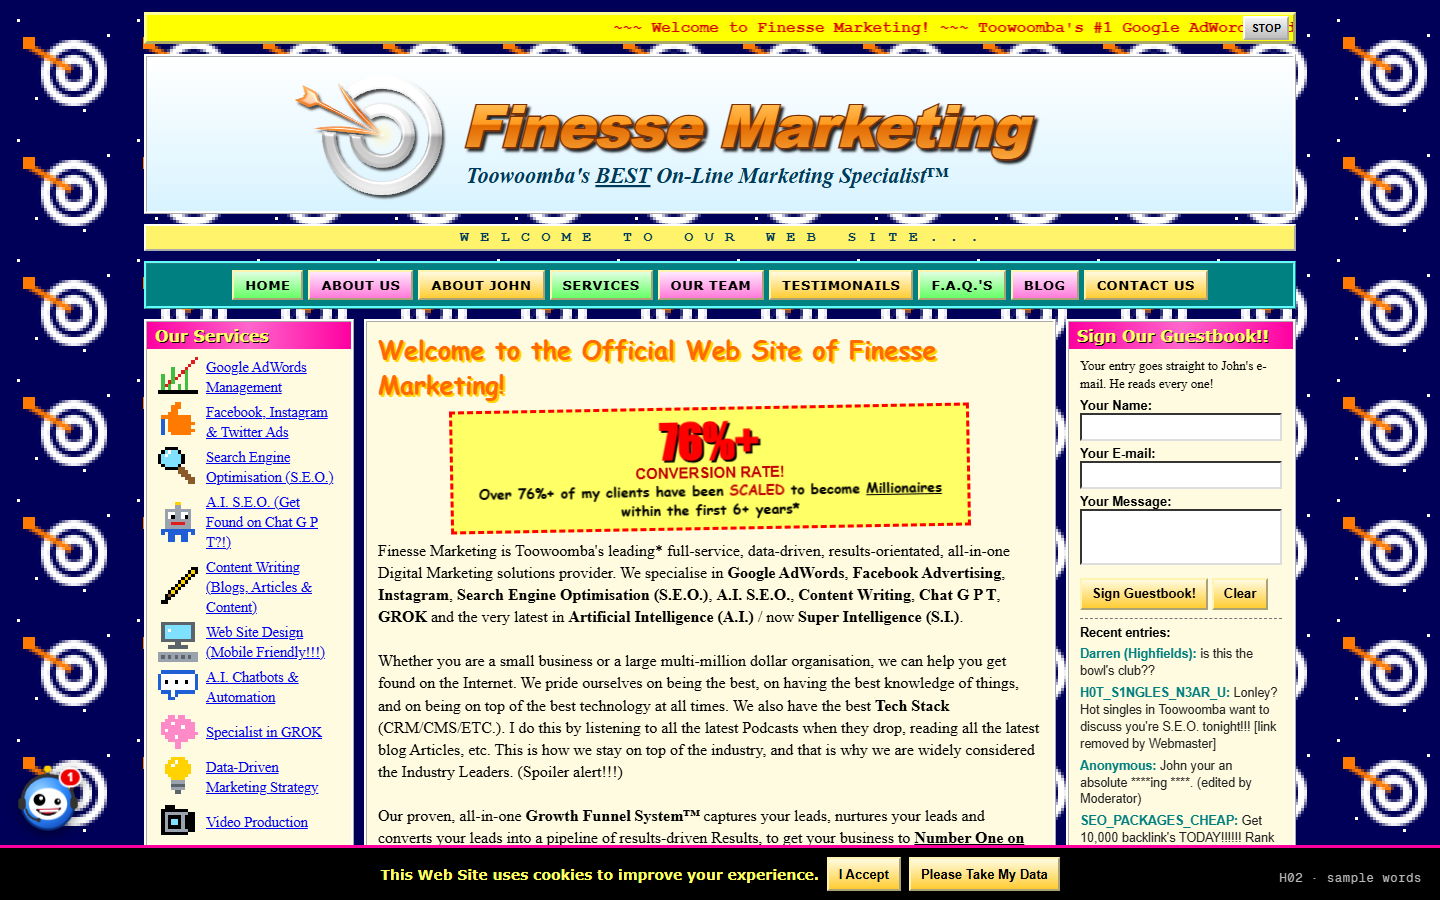
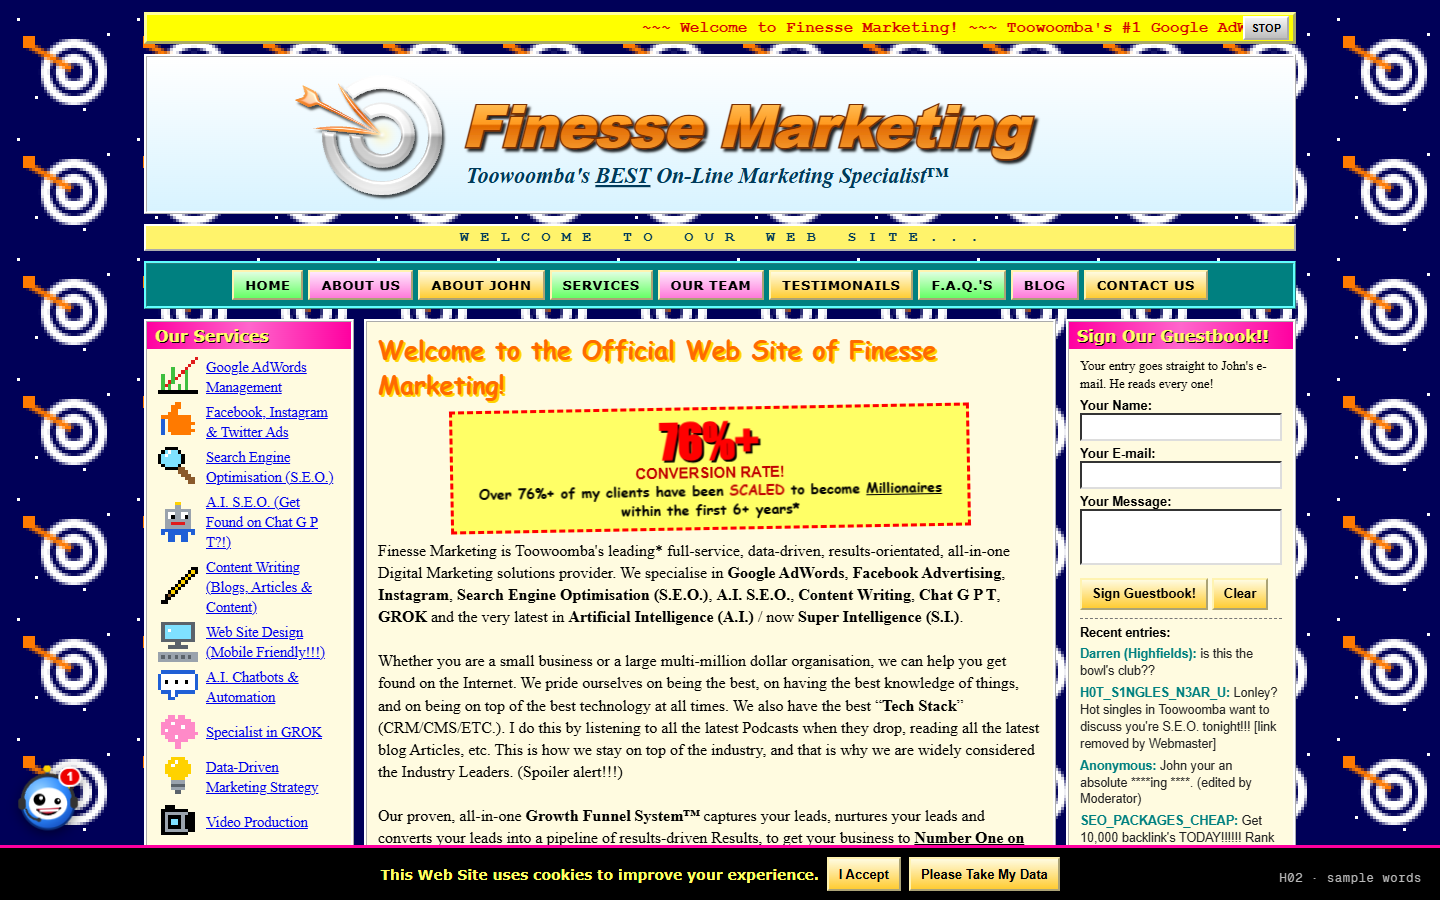
Hero ideas preview: Ninety-six round 3m

diff --git a/look/website-hero/ninety-six.html b/look/website-hero/ninety-six.html
@@ -315,7 +315,7 @@
     <div class="mid">
       <div class="box welcome"><h2 title="Heading (welcome)">Welcome to the Official Web Site of Finesse Marketing!</h2>
         <p class="bigstat"><b>76%+</b> CONVERSION RATE!<br><span>Over 76%+ of my clients have been <b class="sc">Scaled</b> to become <u>Millionaires</u> within the first 6+ years*</span></p>
-        <p>Finesse Marketing is Toowoomba's leading* full-service, data-driven, results-orientated, all-in-one Digital Marketing solutions provider. We specialise in <b>Google AdWords</b>, <b>Facebook Advertising</b>, <b>Instagram</b>, <b>Search Engine Optimisation (S.E.O.)</b>, <b>A.I. S.E.O.</b>, <b>Content Writing</b>, <b>Chat G P T</b>, <b>GROK</b> and the very latest in <b>Artificial Intelligence (A.I.)</b> / now <b>Super Intelligence (S.I.)</b>.<br><br>Whether you are a small business or a large multi-million dollar organisation, we can help you get found on the Internet. We pride ourselves on being the best, on having the best knowledge of things, and on being on top of the best technology at all times. We also have the best <b>Tech Stack</b> (CRM/CMS/ETC.). I do this by listening to all the latest Podcasts when they drop, reading all the latest blog Articles, etc. This is how we stay on top of the industry, and that is why we are widely considered the Industry Leaders. (Spoiler alert!!!)<br><br>Our proven, all-in-one <b>Growth Funnel System&#8482;</b> captures your leads, nurtures your leads and converts your leads into a pipeline of results-driven Results, to get your business to <b><u>Number One on Google at all times</u></b>*. <b><u>CONTACT US TODAY TO TAKE YOUR BUSINESS TO THE NEXT LEVEL!!</u></b> And then the level after that!!!!<br><br>Probably the hardest-working Digital Marketing company in Toowoomba.* Please browse our Website and click with confidence!</p>
+        <p>Finesse Marketing is Toowoomba's leading* full-service, data-driven, results-orientated, all-in-one Digital Marketing solutions provider. We specialise in <b>Google AdWords</b>, <b>Facebook Advertising</b>, <b>Instagram</b>, <b>Search Engine Optimisation (S.E.O.)</b>, <b>A.I. S.E.O.</b>, <b>Content Writing</b>, <b>Chat G P T</b>, <b>GROK</b> and the very latest in <b>Artificial Intelligence (A.I.)</b> / now <b>Super Intelligence (S.I.)</b>.<br><br>Whether you are a small business or a large multi-million dollar organisation, we can help you get found on the Internet. We pride ourselves on being the best, on having the best knowledge of things, and on being on top of the best technology at all times. We also have the best &#8220;<b>Tech Stack</b>&#8221; (CRM/CMS/ETC.). I do this by listening to all the latest Podcasts when they drop, reading all the latest blog Articles, etc. This is how we stay on top of the industry, and that is why we are widely considered the Industry Leaders. (Spoiler alert!!!)<br><br>Our proven, all-in-one <b>Growth Funnel System&#8482;</b> captures your leads, nurtures your leads and converts your leads into a pipeline of results-driven Results, to get your business to <b><u>Number One on Google at all times</u></b>*. <b><u>CONTACT US TODAY TO TAKE YOUR BUSINESS TO THE NEXT LEVEL!!</u></b> And then the level after that!!!!<br><br>Probably the hardest-working Digital Marketing company in Toowoomba.* Please browse our Website and click with confidence!</p>
         <p class="slogan">Marketing... the Finesse way!!!</p></div>
       <div class="box"><h3>Our Proven 3-Step Process</h3><ol class="steps"><li><b>Step 1:</b> Funnel</li><li><b>Step 2:</b> Grow Your Funnel</li><li><b>Step 3:</b> Results?!</li><li><b>Step 4:</b> Retention</li><li><b>Step 5:</b> Re-Funnel the Retention</li><li><b>Step 3b:</b> Synergy (see Step 2)</li><li><b>Step 0:</b> Awareness (do this first)</li></ol><p style="font:12px Arial;text-align:center">All steps are proven.</p></div>
       <div class="box mission"><h3 style="font-style:normal">Our Mission</h3>To be the best marketing company we can be, for the business of promoting other businesses through advertising and online marketing, including S.E.O., in Toowoomba, and also Australia.</div>
@@ -371,7 +371,7 @@
       <div class="box testi"><h3>Testimonials</h3>
         <p>&#8220;He said we would be Number One on Google. We searched our own name and there we were.&#8221;<br><b>~ Lower Range Pony &amp; Hobby Horse Club</b></p>
         <p>&#8220;Our raffle has never been more data-driven.&#8221;<br><b>~ East Side Bowls &amp; Raffle Club</b></p>
-        <p>&#8220;We asked for a logo, a website and a marketing strategy. We received a &#8220;Funnel&#8221;. We are still not sure what it does, but it is ours for just $140 a month.&#8221;<br><b>~ Pete's Plumbing</b></p>
+        <p>&#8220;We asked for a logo, a website and a marketing strategy. We received a &#8220;Funnel&#8221;. We are still not sure what it does, but it is ours for just $140 a month. And we now have the best Tech Stack in Toowoomba!!&#8221;<br><b>~ Pete's Plumbing</b></p>
         <p>&#8220;He explained Google AdWords to me for two hours. I still do not know what it is, but apparently I am Number One at certain times on certain devices. I believe John has the greatest of all the Tech Stacks. This is what I am led to believe.&#8221;<br><b>~ Dr. Ahmed Salamat</b></p></div>
       <div class="box"><h3>Our Values</h3><p class="mission" style="font-style:normal;font-weight:bold">Integrity. excellence. Integrity (it is that important). Synergy. Values.<br><span style="font-weight:normal;font-size:14px">We value our Values. Its as simple as that.<br>Im done explaning myself to all the haters .</span></p></div>
       <div class="box rant" id="johnRant"><h3>A Message From John: Why We Will NEVER Use A.I. Slop</h3>
